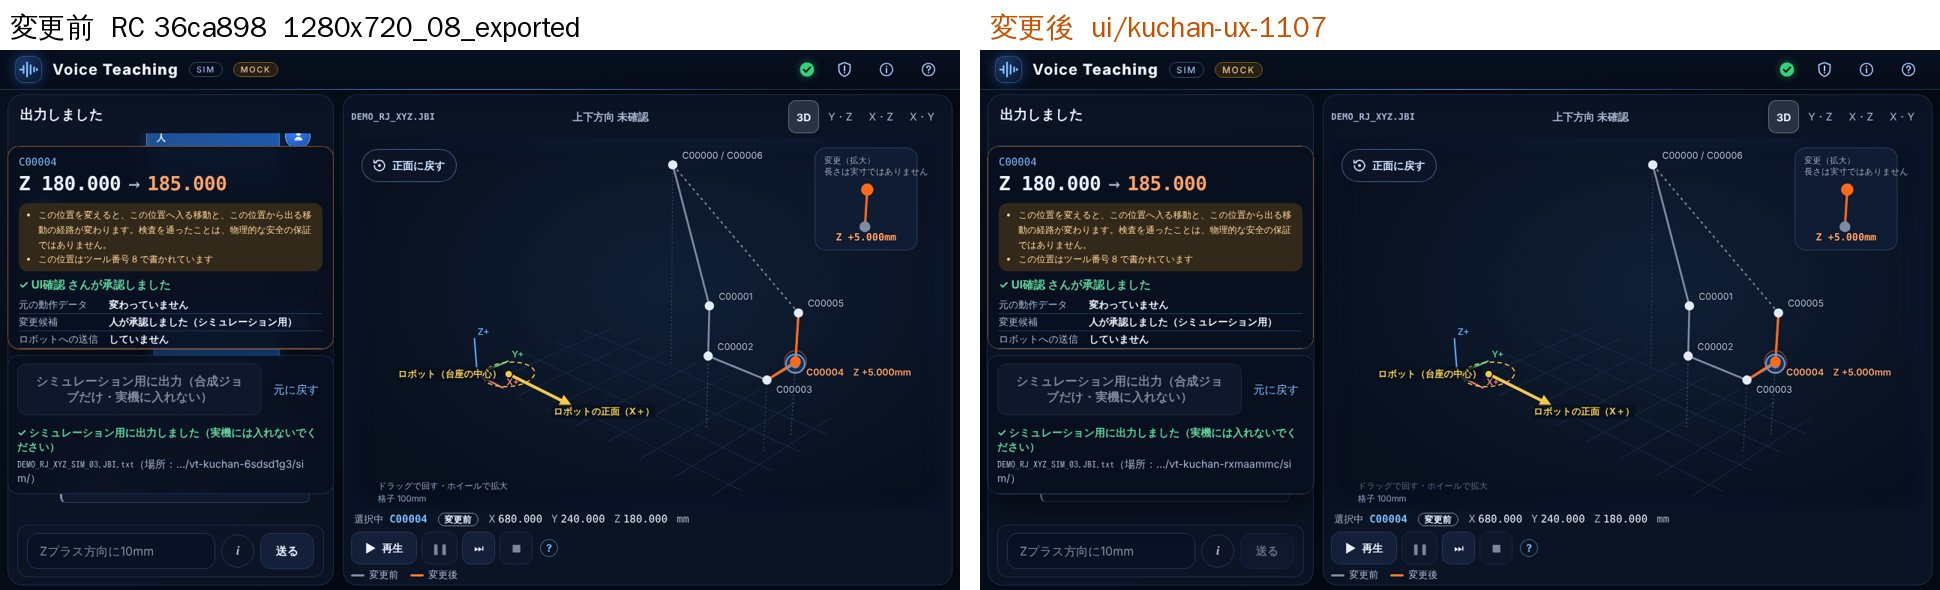
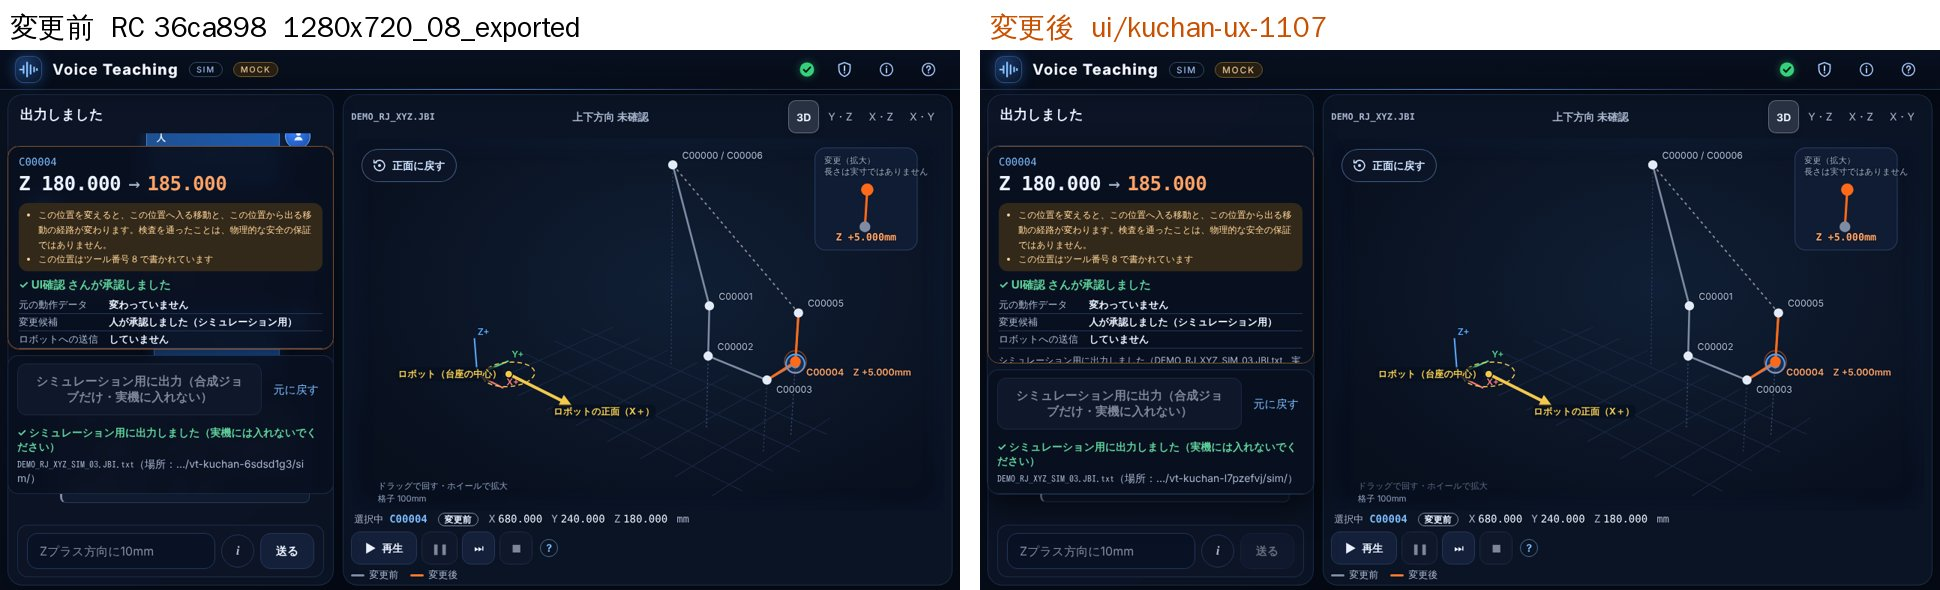
UI精査 11/7（クーちゃん）：K1 の例外 — 答えを選ぶボタンが会話の欄に出ている間は、ポップアップを 3D の右下に戻す
なぜ：K1（会話の欄の上に重ねる）のままだと、1920 で承認のあとの保留の［取り消す］［このまま残す］がポップアップの下に
隠れて押せなかった（e2e「P0 保留」が止まった）。保留・聞き返しの選択・範囲の確認は、押す必要がある大事な選択。
何を：#reply-message のボタン・#dialog-choices のボタン・#dock-range があるときだけ、1500px 以上でも RC と同じ置き方
（3D の右下）に戻す。CSS の :has だけ。check_hold_after_approval を 1920・1600 で通ることを確かめた。比較画像・報告を更新。

Claude-Session: https://claude.ai/code/session_014pJhiXn87MDCBVibtKvnau

Changed region(s): [[0.4948, 0.5797, 0.6804, 0.8237]]

diff --git a/voice_teaching/web/static/style.css b/voice_teaching/web/static/style.css
@@ -1644,6 +1644,13 @@ body.hero #kbd-button > span { display: inline; font-size: 14px; }
   .cand-pop { left: 8px; width: min(26vw, 500px); top: 118px; bottom: 156px; }  /* 会話の欄（left 8px・幅 26vw）に合わせる */
 }
 
+/* K1 の例外：会話の欄に、答えを選ぶボタン（保留の［取り消す］［このまま残す］・聞き返しの選択・範囲の確認）が出ている間は、
+   会話の欄をふさがない。ポップアップは RC と同じ 3D の右下に戻す（押す必要がある選択を、ポップアップの下に隠さない） */
+@media (min-width: 1500px) {
+  body:has(#reply-message:not([hidden]) button, #dialog-choices button, #dock-range:not([hidden])) .cand-pop {
+    position: absolute; left: auto; right: 16px; top: auto; bottom: 16px; width: min(380px, 36%); max-height: calc(100% - 32px); z-index: 4; }
+}
+
 /* K2（P2）1100px 以上：ポップアップを会話の欄の上に重ねるとき、後ろの吹き出しが切れて覗かないよう、ひと続きの面にする */
 @media (min-width: 1100px) {
   .cand-pop { background: #0a1324; border-radius: 16px; box-shadow: 0 0 0 1px var(--glass-line), 0 18px 40px rgba(0, 0, 0, 0.55); }

diff --git a/docs/ui-kuchan-1107/REPORT_UI_UX_KUCHAN_1107.md b/docs/ui-kuchan-1107/REPORT_UI_UX_KUCHAN_1107.md
@@ -42,6 +42,7 @@
 | ID | 内容 | 大きさ | 前→後（測った値） |
 |---|---|---|---|
 | K1 | 候補のポップアップを、会話の欄の上にぴったり重ねる（1100〜1499px の今の決まりと同じ置き方）。見出しと下の文字の入力欄はふさがない | ≥1500px | 1920 の候補・確認・承認・出力の4場面：**ポップアップの下の点 3つ → 0**。3D の倍率 1.754→1.754（変わらない）。候補の前後で点は動かない（F7） |
+| K1 の例外 | 会話の欄に**答えを選ぶボタン**（承認のあとの保留の［取り消す］［このまま残す］・聞き返しの選択・範囲の確認）が出ている間は、ポップアップを RC と同じ 3D の右下に戻す | ≥1500px | e2e「P0 保留」（1920・1600）：ボタンがポップアップに隠れて押せない → 押せる |
 | K2 | 会話の上に重ねたポップアップを、背景つきのひと続きの面に | ≥1100px | 覗いていた吹き出しの切れ端が消えた |
 | K3 | 主なボタン（確認して承認へ・出力）を横いっぱいに。「元に戻す」はその下 | ≥1500px | 出力のボタンの文 3行→2行 |
 | K4 | 空のとき「送る」を薄く・押せない見た目に | 全部 | — |
@@ -54,6 +55,7 @@
 - K3 を 1280・1440 にも広げる案：「元に戻す」が1行増え、承認のあとの「ロボットへの送信：していません」がポップアップのスクロールの下に隠れた（1280×720 で確認）。**安全の表示を優先して 1500px 以上だけ**にした。
 - 候補が出たときだけ 3D を縮める案：11/5 F7（候補の前後で点を動かさない）に反するのでやめた。
 - **K1 の最初の案（JOB を読んだときから 3D の枠の右に 372px を空ける）**：点は隠れなくなったが、1920 で 3D の倍率が 1.754→1.521（**13% 小さい**）になり、e2e の 11/5 F6「3D は小さくならない」が 5件 NG、会話の欄を細くしたため「最新の答えが会話の欄で切れる」も出た。**3D を大きく見せる方を優先して捨てた**。
+- **K1 で見つけた退行と直し**：会話の欄に重ねたままだと、1920 の承認のあとの保留で［取り消す］［このまま残す］がポップアップの下に隠れ、押せなかった（e2e の P0 保留が途中で止まった）。選ぶボタンが出ている間だけ RC の置き方に戻す例外を足し、1920・1600 で通ることを確かめた。
 - 今の K1 は、計画の「候補パネルが会話を覆わない」と字面では合わない。ただし 1100〜1499px では前から同じ置き方が決まっていて、ポップアップの中身は最新の答えと同じ候補（対象・差分・注意・承認の状態）、下の文字の入力欄は見えたまま。**覆うのは候補を確かめている間だけ**。この判断は唐川さんに確認したい（8章）。
 
 ## 4. シクロへの提案（app.js・文言・HTML が要るので、実装していない）
